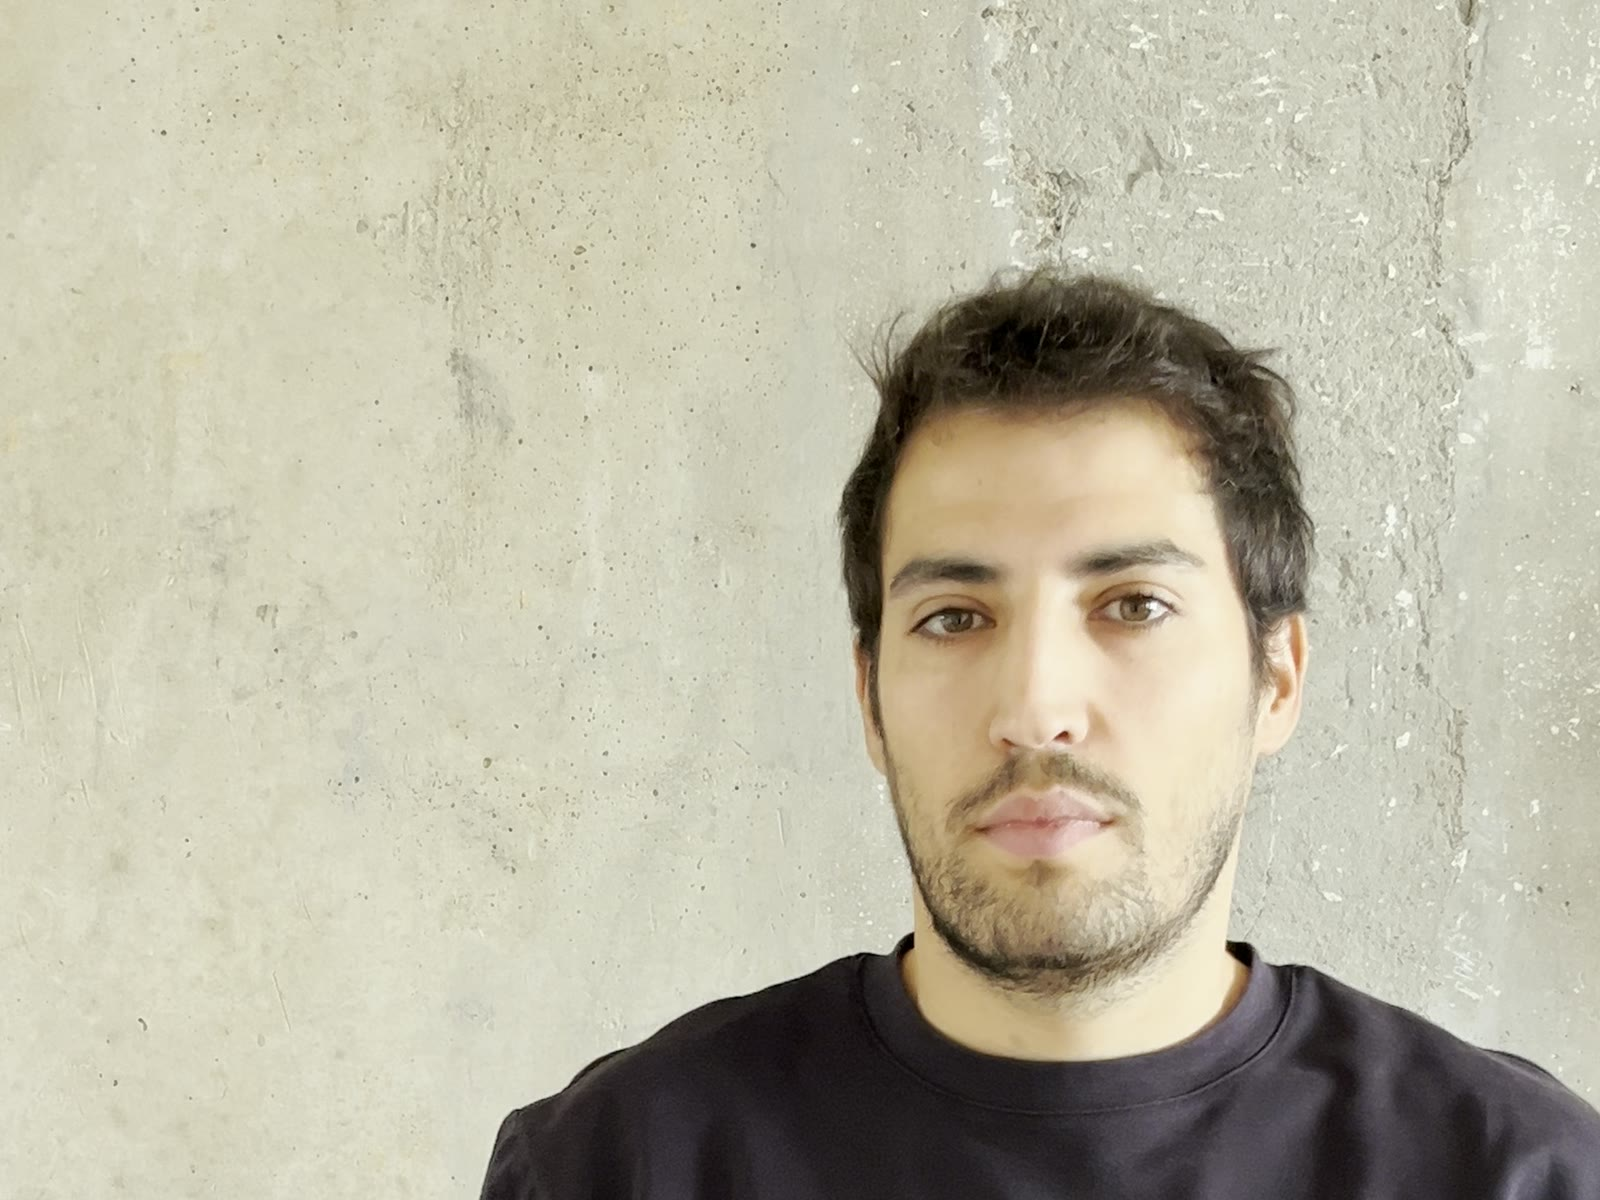
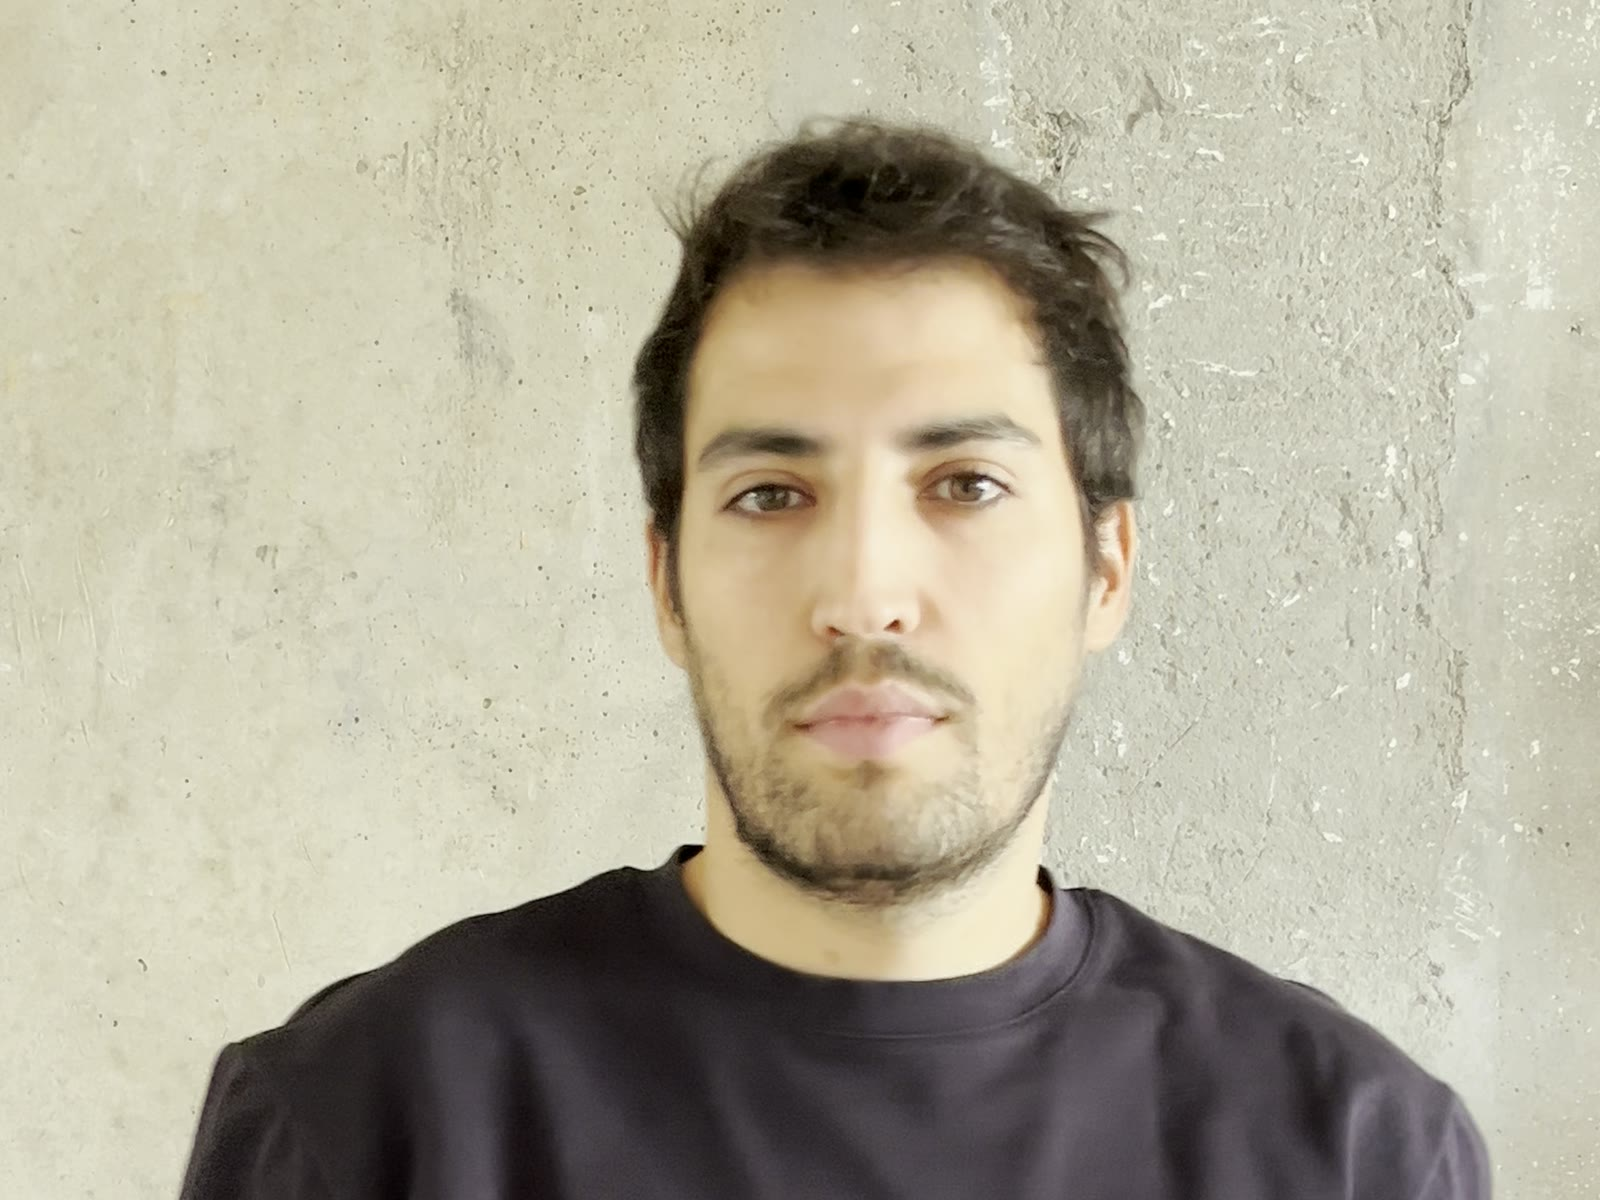
Hero: use frame 2766 (Martin's pick) for desktop and phone
Same framing (~70% across, wall on both sides, head to waist) and
natural colour; wall extended from the clip's empty-wall frames with
trimmed edges and a blended far-left piece to avoid mirror patterns.

diff --git a/content/profile.ts b/content/profile.ts
@@ -17,13 +17,12 @@ export const profile = {
   linkedin: "https://www.linkedin.com/in/martin-calo-garcia/",
   github: "https://github.com/martincalo",
 
-  // Hero photo, from "Personal Picture.MOV" (natural colour, HDR → SDR).
-  // Desktop: public/hero.jpg (3556×2000): the relaxed take at 24 s, head to
-  // waist at full resolution, ~70% across; the wall is extended on both sides
-  // with the clip's empty-wall frames (colour-matched; mirrored on the left,
-  // unused wall on the right). Phones: public/hero-mobile.jpg (1600×1200
-  // head-and-shoulders crop of the 45.5 s take). `focus` keeps the subject in
-  // frame on desktop.
+  // Hero photo: frame 2766 (46.1 s) of "Personal Picture.MOV", natural
+  // colour (HDR → SDR). Desktop: public/hero.jpg (4000×2250), head to waist,
+  // ~70% across; the wall extended with the clip's empty-wall frames
+  // (colour-matched; mirrored and unused wall pieces, blended). Phones:
+  // public/hero-mobile.jpg (1600×1200 head-and-shoulders crop of the same
+  // frame). `focus` keeps the subject in frame on desktop.
   heroImage: {
     src: "/hero.jpg",
     mobileSrc: "/hero-mobile.jpg",

diff --git a/CLAUDE.md b/CLAUDE.md
@@ -83,7 +83,7 @@ public/
 ## Homepage sections (in order)
 
 1. **Header:** "martin calo" wordmark (mono) left; nav right: work, books, contact (in-page anchors).
-2. **Hero** (fills the first screen below the header). ≥1200px: the concrete wall fills the whole hero in natural colour, Martin about 70% across with wall on both sides (`public/hero.jpg`, 3556×2000: the relaxed take at 24 s of `Personal Picture.MOV`, head to waist at full resolution; the wall extended with the clip's empty-wall frames, colour-matched — mirrored on the left, unused wall on the right). The headline sits on the wall over a light page-colour wash (tokens `--hero-wash*`: 22% to 36%→50% in light, 88% to 48%→66% in dark) and the hero fades into the page at the bottom. 768–1199px: the wide image in a 16:9 box above the text. Phones: `public/hero-mobile.jpg` (1600×1200 head-and-shoulders crop of the 45.5 s take) above the text. One `<picture>` via `getImageProps`. Save JPEGs as standard 4:2:0. Text: h1 = the role (must match LinkedIn); tagline "Building reliable systems." (not a heading); subtitle; no eyebrow, no contact links. Concrete stays in the hero only. A landscape reshoot with a slight smile would still improve it.
+2. **Hero** (fills the first screen below the header). ≥1200px: the concrete wall fills the whole hero in natural colour, Martin about 70% across with wall on both sides (`public/hero.jpg`, 4000×2250: frame 2766 (46.1 s) of `Personal Picture.MOV`, chosen by Martin, head to waist; the wall extended with the clip's empty-wall frames, colour-matched — mirrored on the left, unused wall on the right). The headline sits on the wall over a light page-colour wash (tokens `--hero-wash*`: 22% to 36%→50% in light, 88% to 48%→66% in dark) and the hero fades into the page at the bottom. 768–1199px: the wide image in a 16:9 box above the text. Phones: `public/hero-mobile.jpg` (1600×1200 head-and-shoulders crop of the same frame) above the text. One `<picture>` via `getImageProps`. Save JPEGs as standard 4:2:0. Text: h1 = the role (must match LinkedIn); tagline "Building reliable systems." (not a heading); subtitle; no eyebrow, no contact links. Concrete stays in the hero only. A landscape reshoot with a slight smile would still improve it.
 3. **Experience sections** (dark "stage" background, reverse chronological). Each is a video section (see "Video sections" below): label in mono capitals without numbers (`NOW · METRIFY · BERLIN`), title, 3 short paragraphs (context, what I did, outcome), stack tags in mono, and a "Read the full story →" link to `/work/[slug]`. Text alternates sides on desktop (left, right, left).
    - **Metrify, now:** digitalizing the smart meter market. Video: `Meter 3.mp4` (1080p, no watermark), first 20 s at 2× (`SPEED=2 scripts/encode-video.sh meter "Meter 3.mp4" 0-20` → 10 s) so the counter visibly rolls; shown as the whole 16:9 frame on desktop (`frame: "whole"`), and also in the story header. The earlier `Meter.mp4` / `Meter 1.mp4` are watermarked iStock previews and must never be published.
    - **Tesla:** from machine controls to factory software. Video: a drive in a Tesla (`Tesla 3.mp4`, 36–44 s). Martin confirmed the right to publish the Tesla clips (30 Sept).
